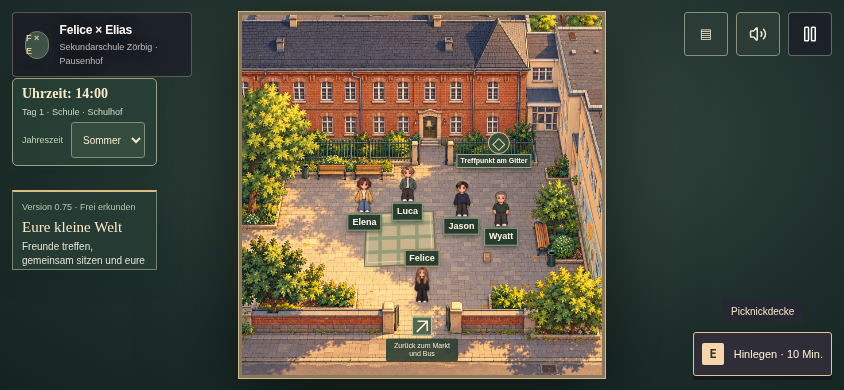
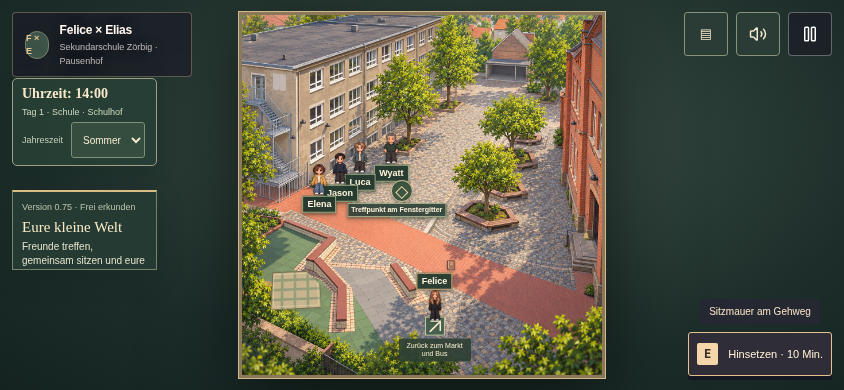
V0.75: rebuild school courtyard from supplied photos

diff --git a/game/story.ts b/game/story.ts
@@ -33,14 +33,7 @@ export const PLACES: Record<Place, { name: string; subtitle: string; exits: Exit
     { x: .47, y: .20, to: "bus", label: "Bus zurück nach Radegast", spawn: { x: .74, y: .47 } },
     { x: .17, y: .76, to: "school", label: "Zum Pausenhof", spawn: { x: .5, y: .85 } },
   ], obstacles: [{ left: .525, right: .555, top: .15, bottom: .21 }] },
-  school: { name: "Sekundarschule Zörbig · Pausenhof", subtitle: "Unser Treffpunkt am Gitter", exits: [{ x: .5, y: .9, to: "zoerbig", label: "Zurück zum Markt und Bus", spawn: { x: .20, y: .75 } }], obstacles: [
-    { left: 0, right: .81, top: 0, bottom: .343 }, { left: .88, right: 1, top: 0, bottom: .76 },
-    { left: .18, right: .49, top: .35, bottom: .414 }, { left: .574, right: .82, top: .35, bottom: .414 },
-    { left: .207, right: .29, top: .416, bottom: .46 }, { left: .312, right: .395, top: .416, bottom: .46 },
-    { left: 0, right: .105, top: .34, bottom: .59 }, { left: 0, right: .32, top: .66, bottom: .815 },
-    { left: .805, right: 1, top: .57, bottom: .68 }, { left: .69, right: 1, top: .755, bottom: .89 },
-    { left: 0, right: .43, top: .82, bottom: .883 }, { left: .59, right: 1, top: .82, bottom: .883 },
-  ] },
+  school: { name: "Sekundarschule Zörbig · Pausenhof", subtitle: "Treffpunkt an den Fenstergittern", exits: [{ x: .535, y: .9, to: "zoerbig", label: "Zurück zum Markt und Bus", spawn: { x: .20, y: .75 } }], obstacles: [] },
   goelzau: { name: "Gölzau · Weg zum Schützenhaus", subtitle: "Ankommen, Freunde treffen, zusammen schießen", exits: [
     { x: .90, y: .65, to: "bus", label: "Zurück nach Radegast", spawn: { x: .82, y: .76 } },
     { x: .265, y: .285, to: "range", label: "Ins Schützenhaus", spawn: { x: .5, y: .82 } },
@@ -88,13 +81,13 @@ export const ENTITIES: Record<Place, Entity[]> = {
     { id: "ticket", name: "Fahrkarte", x: .39, y: .48, display: { x: .405, y: .40 }, kind: "item", art: "ticket", text: "Eine Fahrkarte für den gemeinsamen Weg." },
   ],
   school: [
-    { id: "school-grille", name: "Treffpunkt am Gitter", x: .53, y: .45, display: { x: .70, y: .385 }, kind: "item", art: "landmark", text: "Das Gitter steht direkt am Schulgebäude. Hier treffen Felice und Elias ihre Freunde in der Pause." },
-    { id: "friends", name: "Elena", x: .34, y: .55, kind: "person", art: "elena", text: "Hey Felice! Wir treffen uns am Gitter beim Schulgebäude. Bleibst du noch ein bisschen bei mir?" },
-    { id: "jason", name: "Jason", x: .61, y: .56, kind: "person", art: "jason", text: "Hey. Ich mache gerade eine kleine Pause am Gitter. Du kannst dich gern dazustellen." },
-    { id: "luca", name: "Luca", x: .46, y: .52, kind: "person", art: "luca", text: "Hallo Felice. Heute ist es hier ziemlich ruhig. Das mag ich." },
-    { id: "wyatt", name: "Wyatt", x: .72, y: .59, kind: "person", art: "wyatt", text: "Hey Felice! Schön, dass du da bist." },
-    { id: "notebook", name: "Vergessenes Heft", x: .68, y: .69, kind: "item", art: "book", text: "Jemand hat ein Heft liegen gelassen." },
-    { id: "school-door", name: "Schultür", x: .53, y: .385, display: { x: .52, y: .32 }, kind: "item", art: "bell", text: "Der Unterricht ist vorbei. Zeit für den gemeinsamen Heimweg." },
+    { id: "school-grille", name: "Treffpunkt am Fenstergitter", x: .31, y: .52, display: { x: .43, y: .52 }, kind: "item", art: "landmark", text: "Die niedrigen Gitter sitzen vor den unteren Fenstern des grauen Schulgebäudes. Hier stehen Elena, Jason, Luca und Wyatt in der Pause." },
+    { id: "friends", name: "Elena", x: .215, y: .50, kind: "person", art: "elena", text: "Hey Felice! Wir treffen uns am Gitter beim Schulgebäude. Bleibst du noch ein bisschen bei mir?" },
+    { id: "jason", name: "Jason", x: .272, y: .469, kind: "person", art: "jason", text: "Hey. Ich mache gerade eine kleine Pause am Gitter. Du kannst dich gern dazustellen." },
+    { id: "luca", name: "Luca", x: .328, y: .438, kind: "person", art: "luca", text: "Hallo Felice. Heute ist es hier ziemlich ruhig. Das mag ich." },
+    { id: "wyatt", name: "Wyatt", x: .415, y: .414, kind: "person", art: "wyatt", text: "Hey Felice! Schön, dass du da bist." },
+    { id: "notebook", name: "Vergessenes Heft", x: .58, y: .71, kind: "item", art: "book", text: "Jemand hat ein Heft liegen gelassen." },
+    { id: "school-door", name: "Schultür", x: .875, y: .68, display: { x: .955, y: .63 }, kind: "item", art: "bell", text: "Der Unterricht ist vorbei. Zeit für den gemeinsamen Heimweg." },
   ],
   range: [{ id: "range-host", name: "Am Schießstand", x: .32, y: .57, kind: "person", art: "host", text: "Die Bahn ist bereit. Neun Schüsse, drei Scheiben. Nimm dir Zeit." }, { id: "shoot", name: "Schießbahn", x: .5, y: .44, kind: "item", art: "target", text: "Bereit für deine Runde?" },
     { id: "ida", name: "Ida", x: .19, y: .68, kind: "person", art: "ida", text: "Hallo Felice! Schön, dich beim Schießen zu sehen." },
@@ -176,6 +169,25 @@ const WALK_AREAS: Partial<Record<Place, Point[][]>> = {
   ],
   goelzau: [[{x:.09,y:.26},{x:.61,y:.24},{x:.65,y:.32},{x:.69,y:.43},{x:.77,y:.50},{x:.83,y:.59},{x:.95,y:.59},{x:.95,y:.70},{x:.83,y:.73},{x:.79,y:.63},{x:.72,y:.55},{x:.66,y:.49},{x:.52,y:.45},{x:.35,y:.43},{x:.20,y:.42},{x:.09,y:.35}]],
 };
+// The school photo has diagonal facades and angular tree/wall seating.
+// Use their ground footprints rather than a rectangular fence across the yard.
+const SOLID_AREAS: Partial<Record<Place, Point[][]>> = {
+  school: [
+    [{x:0,y:0},{x:.582,y:0},{x:.567,y:.30},{x:.174,y:.496},{x:0,y:.526}],
+    [{x:.917,y:0},{x:1,y:0},{x:1,y:1},{x:.96,y:1},{x:.90,y:.72},{x:.88,y:.49}],
+    [{x:.677,y:.13},{x:.819,y:.13},{x:.819,y:.197},{x:.677,y:.197}],
+    [{x:.40,y:.362},{x:.455,y:.34},{x:.505,y:.352},{x:.50,y:.382},{x:.45,y:.395},{x:.398,y:.38}],
+    [{x:.55,y:.247},{x:.575,y:.238},{x:.62,y:.249},{x:.608,y:.268},{x:.56,y:.265}],
+    [{x:.837,y:.237},{x:.862,y:.227},{x:.88,y:.242},{x:.87,y:.262},{x:.84,y:.255}],
+    [{x:.754,y:.342},{x:.793,y:.325},{x:.834,y:.334},{x:.831,y:.361},{x:.78,y:.365}],
+    [{x:.707,y:.411},{x:.748,y:.386},{x:.807,y:.389},{x:.826,y:.427},{x:.761,y:.447},{x:.70,y:.431}],
+    [{x:.69,y:.49},{x:.73,y:.478},{x:.783,y:.482},{x:.795,y:.505},{x:.738,y:.518},{x:.684,y:.505}],
+    [{x:.59,y:.55},{x:.64,y:.522},{x:.732,y:.534},{x:.769,y:.581},{x:.664,y:.610},{x:.595,y:.578}],
+    [{x:.115,y:.577},{x:.263,y:.618},{x:.262,y:.636},{x:.125,y:.599}],
+    [{x:.265,y:.618},{x:.260,y:.667},{x:.205,y:.704},{x:.292,y:.757},{x:.292,y:.881},{x:.251,y:.881},{x:.251,y:.782},{x:.178,y:.711},{x:.175,y:.695},{x:.22,y:.656}],
+    [{x:.416,y:.704},{x:.437,y:.696},{x:.490,y:.753},{x:.468,y:.790},{x:.443,y:.785},{x:.414,y:.727}],
+  ],
+};
 function insideArea(x: number, y: number, points: Point[]) {
   let inside = false;
   for (let i = 0, j = points.length - 1; i < points.length; j = i++) {
@@ -185,9 +197,9 @@ function insideArea(x: number, y: number, points: Point[]) {
   return inside;
 }
 export function canWalk(place: Place, x: number, y: number) {
-  return (!WALK_AREAS[place] || WALK_AREAS[place]!.some(points => insideArea(x,y,points))) && x >= .075 && x <= .94 && y >= .16 && y <= .92 && !PLACES[place].obstacles.some(o => x > o.left - .02 && x < o.right + .02 && y > o.top - .015 && y < o.bottom + .015);
+  return (!SOLID_AREAS[place] || !SOLID_AREAS[place]!.some(points => insideArea(x,y,points))) && (!WALK_AREAS[place] || WALK_AREAS[place]!.some(points => insideArea(x,y,points))) && x >= .075 && x <= .94 && y >= .16 && y <= .92 && !PLACES[place].obstacles.some(o => x > o.left - .02 && x < o.right + .02 && y > o.top - .015 && y < o.bottom + .015);
 }
-export const SPAWNS: Record<Place, Point> = { bedroom: { x: .5, y: .7 }, home: { x: .5, y: .78 }, kitchen: { x: .5, y: .85 }, garden: { x: .5, y: .38 }, radegast: { x: .435, y: .28 }, bus: { x: .5, y: .72 }, zoerbig: { x: .61, y: .285 }, school: { x: .5, y: .8 }, goelzau: { x: .86, y: .63 }, range: { x: .5, y: .8 } };
+export const SPAWNS: Record<Place, Point> = { bedroom: { x: .5, y: .7 }, home: { x: .5, y: .78 }, kitchen: { x: .5, y: .85 }, garden: { x: .5, y: .38 }, radegast: { x: .435, y: .28 }, bus: { x: .5, y: .72 }, zoerbig: { x: .61, y: .285 }, school: { x: .535, y: .85 }, goelzau: { x: .86, y: .63 }, range: { x: .5, y: .8 } };
 export function routeTo(from: Place, to: Place): Exit | undefined {
   const queue: { place: Place; first?: Exit }[] = [{ place: from }];
   const seen = new Set<Place>([from]);

diff --git a/game/day.ts b/game/day.ts
@@ -82,14 +82,14 @@ export const REST_SPOTS: RestSpot[] = [
   { id: "home-sofa", place: "home", name: "Sofa im Wohnzimmer", kind: "chair", approach: { x: .36, y: .48 }, position: { x: .275, y: .412 }, companion: { x: .345, y: .412 } },
   { id: "kitchen-rest", place: "kitchen", name: "Kuscheldecke", kind: "mat", approach: { x: .24, y: .81 }, position: { x: .2, y: .75 }, companion: { x: .28, y: .75 }, furniture: { x: .24, y: .77 } },
   { id: "kitchen-chairs", place: "kitchen", name: "Stuhl am Küchentisch", kind: "chair", approach: { x: .7, y: .64 }, position: { x: .654, y: .582 }, companion: { x: .783, y: .582 } },
-  { id: "school-picnic", place: "school", name: "Picknickdecke", kind: "mat", approach: { x: .43, y: .74 }, position: { x: .40, y: .68 }, companion: { x: .48, y: .68 }, furniture: { x: .44, y: .70 } },
+  { id: "school-picnic", place: "school", name: "Picknickdecke", kind: "mat", approach: { x: .145, y: .865 }, position: { x: .115, y: .80 }, companion: { x: .185, y: .80 }, furniture: { x: .15, y: .82 } },
   { id: "range-rest", place: "range", name: "Ruhedecke", kind: "mat", approach: { x: .22, y: .92 }, position: { x: .18, y: .885 }, companion: { x: .26, y: .885 }, furniture: { x: .22, y: .905 } },
   { id: "home-rest", place: "home", name: "Kuscheldecke zum Ausruhen", kind: "mat", approach: { x: .45, y: .78 }, position: { x: .425, y: .72 }, companion: { x: .505, y: .72 }, furniture: { x: .465, y: .74 } },
   { id: "bus-rest", place: "bus", name: "Decke am Platzrand", kind: "mat", approach: { x: .38, y: .85 }, position: { x: .34, y: .79 }, companion: { x: .42, y: .79 }, furniture: { x: .38, y: .81 } },
   { id: "felice-bed", place: "bedroom", name: "Felices Bett", kind: "bed", approach: { x: .30, y: .49 }, position: { x: .255, y: .225 } },
   { id: "garden-bench", place: "garden", name: "Gartenbank", kind: "bench", approach: { x: .25, y: .65 }, position: { x: .215, y: .602 }, companion: { x: .28, y: .602 }, furniture: { x: .25, y: .61 } },
   { id: "bus-bench", place: "bus", name: "Bank an der Haltestelle", kind: "bench", approach: { x: .33, y: .485 }, position: { x: .312, y: .419 }, companion: { x: .362, y: .419 } },
-  { id: "school-bench", place: "school", name: "Bank beim Gitter", kind: "bench", approach: { x: .25, y: .51 }, position: { x: .23, y: .469 }, companion: { x: .273, y: .469 } },
-  { id: "school-bench-right", place: "school", name: "Zweite Bank beim Gitter", kind: "bench", approach: { x: .355, y: .51 }, position: { x: .335, y: .469 }, companion: { x: .378, y: .469 } },
+  { id: "school-bench", place: "school", name: "Sitzrand am vorderen Baum", kind: "bench", approach: { x: .69, y: .665 }, position: { x: .662, y: .615 }, companion: { x: .717, y: .615 } },
+  { id: "school-bench-right", place: "school", name: "Sitzmauer am Gehweg", kind: "bench", approach: { x: .52, y: .75 }, position: { x: .435, y: .744 }, companion: { x: .473, y: .782 } },
   { id: "range-bench", place: "range", name: "Bank am Schießstand", kind: "bench", approach: { x: .76, y: .89 }, position: { x: .725, y: .835 }, companion: { x: .79, y: .835 }, furniture: { x: .76, y: .845 } },
 ];

diff --git a/game/graphics.ts b/game/graphics.ts
@@ -18,10 +18,24 @@ export const SCENE_GRAPHICS: Record<Place, SceneGraphic> = {
     { clip: "polygon(68% 0%,100% 0%,100% 100%,18% 100%,18% 80%,31% 71%,38% 65%,40% 61%,37% 54%,37% 46%,39% 42%,43% 38%,47% 33%,67% 31%)", depth:96 },
     rect(52.5,15,55.5,21),
   ] },
-  school: { background: "/rooms/school-court-v075.png", outdoors: true, light: "#e9dbb8", foreground: [
-    rect(0,0,81,34.3),rect(88,0,100,76),rect(18,35,49,41.4),rect(57.4,35,82,41.4),
-    rect(20.7,41.6,29,46),rect(31.2,41.6,39.5,46),rect(0,34,10.5,59),rect(0,66,32,81.5),
-    rect(80.5,57,100,68),rect(69,75.5,100,89),rect(0,82,43,88.3),rect(59,82,100,88.3),
+  school: { background: "/rooms/school-court-photo-v075.png", outdoors: true, light: "#e9dbb8", foreground: [
+    { clip: "polygon(0% 0%,58.2% 0%,56.7% 30%,17.4% 49.6%,0% 52.6%)", depth:30 },
+    { clip: "polygon(0% 18%,14% 19%,17.4% 49.6%,9% 53%,0% 53%)", depth:53 },
+    { clip: "polygon(91.7% 0%,100% 0%,100% 100%,96% 100%,90% 72%,88% 49%)", depth:96 },
+    { clip: "polygon(38% 16%,48% 12%,55% 17%,54% 29%,48% 31%,47% 37%,50.5% 35.2%,50% 38.2%,45% 39.5%,39.8% 38%,44% 34%,44% 29%,37% 26%)", depth:39.5 },
+    { clip: "polygon(49% 7%,58% 5%,64% 10%,66% 19%,59% 23%,59% 24%,62% 24.9%,60.8% 26.8%,56% 26.5%,55% 24.7%,57% 23%,57% 21%,50% 19%)", depth:26.8 },
+    { clip: "polygon(80% 8%,86% 8%,92% 13%,91% 21%,87% 23%,88% 24.2%,87% 26.2%,84% 25.5%,83.7% 23.7%,85% 23%,81% 21%,79% 15%)", depth:26.2 },
+    { clip: "polygon(72% 24%,78% 22%,85% 25%,84% 31%,80% 32%,83.4% 33.4%,83.1% 36.1%,78% 36.5%,75.4% 34.2%,77% 32%,73% 31%)", depth:36.5 },
+    { clip: "polygon(66% 29%,73% 25%,80% 28%,82% 35%,77% 37%,75% 40%,80.7% 38.9%,82.6% 42.7%,76.1% 44.7%,70% 43.1%,70.7% 41.1%,74% 39%,73% 37%,67% 36%)", depth:44.7 },
+    { clip: "polygon(65% 35%,72% 33%,78% 36%,79% 43%,75% 46%,74% 49%,78.3% 48.2%,79.5% 50.5%,73.8% 51.8%,68.4% 50.5%,69% 49%,72% 47%,72% 45%,66% 44%)", depth:51.8 },
+    { clip: "polygon(57% 42%,64% 36%,70% 36%,75% 39%,78% 46%,74% 52%,68% 52%,69% 54%,73.2% 53.4%,76.9% 58.1%,66.4% 61%,59.5% 57.8%,59% 55%,65% 52%,65% 49%,58% 49%)", depth:61 },
+    { clip: "polygon(11.5% 57.7%,26.3% 61.8%,26.2% 63.6%,12.5% 59.9%)", depth:63.6 },
+    { clip: "polygon(26.5% 61.8%,26% 66.7%,20.5% 70.4%,29.2% 75.7%,29.2% 88.1%,25.1% 88.1%,25.1% 78.2%,17.8% 71.1%,17.5% 69.5%,22% 65.6%)", depth:88.1 },
+    // The diagonal sitting wall needs separate depths so its near end does
+    // not cover a person sitting on the far end.
+    { clip: "polygon(41.6% 70.4%,43.7% 69.6%,46% 72.7%,43.8% 74.3%,41.4% 72.7%)", depth:72 },
+    { clip: "polygon(43.8% 74.3%,46% 72.7%,47.5% 74.6%,45.7% 76.6%,44.3% 76.3%)", depth:75 },
+    { clip: "polygon(45.7% 76.6%,47.5% 74.6%,49% 75.3%,46.8% 79%,44.3% 78.5%,44.3% 76.3%)", depth:78 },
   ] },
   goelzau: { background: "/rooms/goelzau-walk-v075.png", outdoors: true, light: "#dfe5ba", foreground: [rect(5,0,63,24.5),rect(71,0,100,43),
     { clip: "polygon(0% 40%,20% 42%,35% 43%,52% 45%,66% 49%,72% 55%,79% 63%,83% 73%,0% 100%)", depth:96 },

diff --git a/game/actors.ts b/game/actors.ts
@@ -11,12 +11,13 @@ export function standingActor(position: Point, wait = 0): Actor {
   return { position, pose: "standing", moving: false, frame: 0, direction: "front", distance: 0, waypoint: 1, wait, route: [] };
 }
 
-// Short, separate routes below the school building and its benches.
+// Four short routes beside the gray building's basement window grilles.
+// Elias is invited to the separate seating area and has no group patrol.
 export const SCHOOL_ROUTES: Record<string, Point[]> = {
-  friends: [{ x: .34, y: .55 }, { x: .40, y: .55 }, { x: .40, y: .61 }, { x: .34, y: .61 }],
-  jason: [{ x: .61, y: .56 }, { x: .59, y: .56 }, { x: .59, y: .49 }, { x: .61, y: .49 }],
-  luca: [{ x: .46, y: .52 }, { x: .50, y: .52 }, { x: .50, y: .58 }, { x: .46, y: .58 }],
-  wyatt: [{ x: .72, y: .59 }, { x: .77, y: .59 }, { x: .77, y: .51 }, { x: .72, y: .51 }],
+  friends: [{ x: .215, y: .50 }, { x: .235, y: .49 }, { x: .245, y: .52 }, { x: .225, y: .53 }],
+  jason: [{ x: .272, y: .469 }, { x: .292, y: .459 }, { x: .302, y: .489 }, { x: .282, y: .499 }],
+  luca: [{ x: .328, y: .438 }, { x: .348, y: .428 }, { x: .358, y: .458 }, { x: .338, y: .468 }],
+  wyatt: [{ x: .415, y: .414 }, { x: .447, y: .414 }, { x: .457, y: .456 }, { x: .425, y: .456 }],
 };
 export function initialActors(): Actors {
   return Object.fromEntries(Object.values(ENTITIES).flat().filter(e => e.kind === "person" && canChangePose(e.art)).map((e, i) => [e.id, standingActor({ x: e.x, y: e.y }, 1.5 + i % 4)]));
@@ -25,6 +26,11 @@ export function initialActors(): Actors {
 /** Walkable grid routing, including the exact endpoints, around furniture. */
 export function walkingRoute(place: Place, from: Point, to: Point): Point[] {
   const grid = .02;
+  const clearEdge = (a: Point, b: Point) => {
+    const samples = Math.max(1, Math.ceil(Math.hypot(b.x-a.x,b.y-a.y)/.005));
+    for (let i=1;i<=samples;i++) if (!canWalk(place,a.x+(b.x-a.x)*i/samples,a.y+(b.y-a.y)*i/samples)) return false;
+    return true;
+  };
   const cell = (p: Point) => [Math.round(p.x / grid), Math.round(p.y / grid)];
   const start = cell(from), end = cell(to), key = (x: number, y: number) => `${x},${y}`;
   const queue = [start];
@@ -32,10 +38,10 @@ export function walkingRoute(place: Place, from: Point, to: Point): Point[] {
   let found: number[] | undefined;
   for (let i = 0; i < queue.length; i++) {
     const [x, y] = queue[i];
-    if (Math.hypot(x - end[0], y - end[1]) <= 1) { found = [x, y]; break; }
+    if (Math.hypot(x - end[0], y - end[1]) <= 1 && clearEdge({x:x*grid,y:y*grid},to)) { found = [x, y]; break; }
     for (const [dx, dy] of [[1, 0], [-1, 0], [0, 1], [0, -1]]) {
       const nx = x + dx, ny = y + dy, id = key(nx, ny);
-      if (previous.has(id) || !canWalk(place, nx * grid, ny * grid)) continue;
+      if (previous.has(id) || !clearEdge({x:x*grid,y:y*grid},{x:nx*grid,y:ny*grid})) continue;
       previous.set(id, [x, y]); queue.push([nx, ny]);
     }
   }

diff --git a/game/SceneArt.tsx b/game/SceneArt.tsx
@@ -52,11 +52,15 @@ export const SceneArt = memo(function SceneArt({ place, christmas }: { place: Pl
       <Tree x={56} y={208}/><Tree x={547} y={537}/><path d="M90 531h321" stroke="#b1bd93" strokeWidth="8"/>
     </>}
     {place === "school" && <>
-      <rect x="60" y="200" width="484" height="328" fill="url(#paving)"/><rect x="100" y="38" width="400" height="157" fill="#bb8b68"/><rect x="91" y="33" width="418" height="22" fill="#6a6058"/><path d="M106 182h390" stroke="#e0c39a" strokeWidth="12"/>
-      {[133,207,345,419].map(x=><Window key={x} x={x} y={89}/>)}<rect x="275" y="119" width="50" height="79" fill="#5a7774"/><path d="M300 121v73" stroke="#d8c6a2" strokeWidth="4"/><rect x="218" y="58" width="165" height="26" fill="#ead8b2"/><text x="301" y="69" textAnchor="middle" fill="#715a45" fontSize="9" fontFamily="monospace">SEKUNDARSCHULE</text><text x="301" y="80" textAnchor="middle" fill="#715a45" fontSize="10" fontFamily="monospace">ZÖRBIG</text>
-      {[140,366].map((x,i)=><g key={x}><path d={`M${x} 207h${i?72:136}`} stroke="#455c4a" strokeWidth="7"/>{Array.from({length:i?8:15},(_,n)=><path key={n} d={`M${x+n*9} 193v29`} stroke="#455c4a" strokeWidth="3"/>)}</g>)}
-      {[{x:74,y:329},{x:449,y:329}].map(p=><g key={p.x}><rect x={p.x} y={p.y} width="82" height="17" fill="#a47750"/><rect x={p.x+6} y={p.y+20} width="70" height="13" fill="#886246"/></g>)}<Tree x={48} y={236}/><Tree x={554} y={230}/><Tree x={74} y={551}/><Tree x={527} y={553}/>
-      <path d="M290 526h30v74h-30Z" fill="#c6bda1"/>
+      <rect width="600" height="600" fill="url(#paving)"/>
+      <path d="M0 0H349V180L104 298H0Z" fill="#9d9b92"/><path d="M0 80 338 8M0 158 336 87M0 226 332 149" stroke="#c6c5b9" strokeWidth="5"/>
+      {[130,170,210,250,290].map((x,i)=><g key={x}><Window x={x} y={70-i*15}/><Window x={x} y={135-i*15}/><Window x={x} y={200-i*15}/><rect x={x} y={263-i*15} width="28" height="20" fill="#47504b"/>{[5,11,17,23].map(n=><path key={n} d={`M${x+n} ${263-i*15}v20`} stroke="#bcc2b9" strokeWidth="2"/>)}</g>)}
+      <path d="M25 145v146h65V171M25 179 90 245M25 221 90 288" stroke="#c4cfcb" strokeWidth="5" fill="none"/>
+      <path d="M550 0H600V600L576 600 540 432 528 294Z" fill="#a36143"/>{[80,160,240,320].map(y=><Window key={y} x={557} y={y}/>)}<rect x="558" y="356" width="42" height="55" fill="#463d35"/>
+      <path d="M35 310 600 540" stroke="#ba765a" strokeWidth="50"/>
+      <path d="M0 360 145 388 105 425 160 470 160 540 0 530Z" fill="#7d9870"/>
+      <path d="M65 350 151 380 110 422 168 467 168 530M254 421 283 461" stroke="#9b6250" strokeWidth="12" fill="none"/>
+      {[{x:274,y:227},{x:350,y:157},{x:460,y:251},{x:412,y:347}].map(p=><g key={p.x}><path d={`M${p.x-34} ${p.y+6}l34 -17 35 17 -35 15Z`} fill="#8a6b4e"/><Tree x={p.x} y={p.y}/></g>)}
     </>}
     {place === "range" && <>
       <rect width="600" height="211" fill="#b8baa3"/><path d="M0 192h600" stroke="#8c6d4d" strokeWidth="16"/>

diff --git a/game/world.css b/game/world.css
@@ -225,3 +225,8 @@
 .version-075[data-scene="zoerbig"] .room-player,
 .version-075[data-scene="radegast"] .entity-person,
 .version-075[data-scene="zoerbig"] .entity-person { width:4.8%!important; }
+
+/* Photo-based school courtyard: match the facade scale and keep the green corner clear. */
+.version-075[data-scene="school"] .room-player,
+.version-075[data-scene="school"] .entity-person { width:6.6%!important; }
+.version-075[data-scene="school"] .rest-mat { width:14%; }

diff --git a/qa/v075/REVIEW.md b/qa/v075/REVIEW.md
@@ -1,19 +1,20 @@
 # V0.75 – Orts- und Szenenprüfung
 
-Geprüft am 06.10.2026 mit Chromium, agent-browser und dem lokalen Vinext-Entwicklungsserver. Alle zehn Orte wurden in 1366 × 900 und 844 × 390 aufgenommen und auf Darstellung sowie horizontales Überlaufen geprüft. Die neuen Außenbilder und der Hof wurden anhand der fertigen Hintergründe ausgerichtet. Die [Ortsreferenzen](SOURCES.md) beschreiben die Grenzen des realen Abgleichs.
+Geprüft am 06.10.2026 mit Chromium, agent-browser und dem lokalen Vinext-Entwicklungsserver. Alle zehn Orte wurden in 1366 × 900 und 844 × 390 aufgenommen und auf Darstellung sowie horizontales Überlaufen geprüft. Der Schulhof wurde anschließend mit den vier Nutzerfotos neu gestaltet und in beiden Größen erneut geprüft. Die [Ortsreferenzen](SOURCES.md) beschreiben den Fotoabgleich und seine Grenzen.
 
 ## Ergebnis
 
-- 39 Logiktests bestanden. Neu: vollständige, kollisionsgeprüfte Hin- und Rückwege bis zu allen Ausgängen der drei Wegszenen; Schul-/Schießrouten über die neuen Ankunftsorte; alte Kapitelstände bleiben lesbar.
+- 41 Logiktests bestanden: kollisionsgeprüfte Hin- und Rückwege in den drei Wegszenen, Schul-/Schießrouten über die neuen Ankunftsorte, kompatible Kapitelstände sowie genau vier Freunde am Fenstergitter ohne Elias. Die Wegsuche prüft auch schmale Sitzmauern zwischen ihren Rasterpunkten.
 - TypeScript-Prüfung, ESLint der geänderten Spiel- und QA-Dateien sowie Produktionsbuild bestanden.
-- Browser: Wohnung → Radegast → Haltestelle → Zörbiger Markt → Schule und zurück vollständig mit Tastatur gelaufen. Die Gölzauer Zufahrt wurde nach dem Bildabgleich nochmals in beide Richtungen geprüft, einschließlich Eintritt in den Schießstand.
-- Felice und Elias erreichen beide Bänke am Gitter sowie die Haltestellenbank, sitzen zusammen und stehen wieder auf. Elena erreicht eine Bank und die Ruhedecke und kann wieder aufstehen.
+- Browser: Wohnung → Radegast → Haltestelle → Zörbiger Markt → Schule und zurück vollständig mit Tastatur gelaufen. Die Gölzauer Zufahrt wurde nach dem Bildabgleich nochmals in beide Richtungen geprüft, einschließlich Eintritt in den Schießstand. Der abschließende Reise-, Unterrichts- und Winterlauf besteht mit 165 Prüfschritten ohne JavaScript-Fehler.
+- Der fotobasierte Hof zeigt den grauen Schulbau links, das Backsteingebäude rechts, den roten Querweg, Baumbeete und die grüne Ecke mit Sitzmauern. Die vier Freunde bewegen sich entlang der blau markierten unteren Fenstergitter. Ohne Einladung erscheint kein Elias auf dem Hof.
+- Felice und Elias erreichen den Sitzrand am vorderen Baum, die Sitzmauer am Gehweg sowie die Haltestellenbank, sitzen zusammen und stehen wieder auf. Elias bleibt anschließend außerhalb der Schulgruppe ansprechbar. Elena erreicht einen Sitzplatz und die Ruhedecke in der grünen Ecke und kann wieder aufstehen.
 - Unterricht an der neuen Türposition springt von 7:15 auf 13:00. Gehen verbraucht keine zusätzliche Spielzeit; Ortswechsel und Ruheaktionen verwenden die vorhandenen Zeitregeln.
 - Ortsplan markiert den aktuellen Ort; auf Desktop und Handy vollständig sichtbar nach Scrollen im Buch.
 - Joystick per Maus-/Pointer-Drag bei 760 × 390 geprüft: Bewegung startet und stoppt beim Loslassen. Dies prüft den Pointer-Pfad, nicht reale Touch-Hardware.
 - Abschließende Browserläufe melden keine JavaScript-Fehler.
 
-Bei der Prüfung wurden die Beschriftung der Marktankunft, die zwei Schulbankpositionen, der Gölzauer Rückweg auf der Zufahrt und die geometrischen Grenzen der Straßenkurven ausgerichtet. Lucas ruhiger Laufweg liegt ebenfalls vor dem Gitter. Zwei QA-Schritte wurden korrigiert: Ein Weglabel gehört zur Aktionsbeschreibung über dem Knopf; Elenas Sitzplatz muss vor ihrem Haltungswechsel direkt angesprochen werden. Die betroffenen Schritte wurden erfolgreich wiederholt.
+Die Schule besitzt Hindernispolygone für Fassaden, Baumbeete und Sitzmauern sowie passende Vordergrundmasken. Die diagonale Sitzmauer verwendet mehrere Tiefenabschnitte, damit sitzende Figuren sichtbar bleiben. Ein eigener Browserlauf prüft 118 Schritte einschließlich beider Paar-Sitzplätze, Elenas Haltungswechsel, Hofausgang und Rückkehr, Unterricht und Winterdarstellung; alle Schritte bestehen ohne JavaScript-Fehler. Die einfache Ersatzgrafik folgt derselben Hofanordnung.
 
 ## Alle zehn Orte
 
@@ -34,8 +35,10 @@ Bei der Prüfung wurden die Beschriftung der Marktankunft, die zwei Schulbankpos
 
 - [Radegaster Weg bis zur Haltestelle](screenshots/radegast-path-end.png)
 - [Schulankunft vom Markt aus](screenshots/zoerbig-school-arrival.png)
-- [Felice und Elias auf der ersten Bank beim Gitter](screenshots/couple-at-grille.png)
-- [Auf der zweiten Bank](screenshots/couple-second-grille-bench.png)
+- [Vier Schulfreunde an den Fenstergittern](screenshots/friends-at-window-grilles.png)
+- [Felice und Elias am vorderen Baum](screenshots/couple-front-tree.png)
+- [Felice und Elias auf der Sitzmauer](screenshots/couple-seat-wall.png)
+- [Schultür nach Unterricht bis 13 Uhr](screenshots/school-door-photo.png)
 - [Zusammen an der Haltestelle](screenshots/couple-bus-bench.png)
 - [Elena sitzt](screenshots/elena-sitting.png) · [Elena liegt auf der Decke](screenshots/elena-lying.png)
 - [Eingang Schützenhaus](screenshots/goelzau-entrance.png) · [Rückweg auf der Zufahrt](screenshots/goelzau-return-road.png)
@@ -58,4 +61,4 @@ npx --yes --package agent-browser agent-browser --session v075 batch --bail --js
 npx --yes --package agent-browser agent-browser --session v075 close
 ```
 
-Die drei neuen Wegszenen sind bewusst komprimiert. Die aktuelle Außenform des Schützenhauses und sämtliche Hofdetails konnten nicht vollständig anhand aktueller Fotos belegt werden. Reale Busabfahrtszeiten werden nicht simuliert.
+Die drei neuen Wegszenen sind bewusst komprimiert. Der Schulhof folgt den Nutzerfotos, ohne vermessene Abstände oder einen zugesicherten aktuellen Bauzustand. Die aktuelle Außenform des Schützenhauses ist eine Spielinterpretation. Reale Busabfahrtszeiten werden nicht simuliert.

diff --git a/game/ART-V075.md b/game/ART-V075.md
@@ -1,18 +1,20 @@
 # Grafiken und Ortsaufbau in V0.75
 
-Fünf neue PNG-Hintergründe, jeweils 1254 × 1254, wurden mit Imagegen erstellt. Die drei Luftbilder des Nutzers dienten als Referenz für Radegast, Zörbig und den Schulstandort. Die neuen Dateien bleiben unverändert; Spielgeometrie und Vordergrundmasken sind auf die fertigen Bilder ausgerichtet.
+Fünf aktive PNG-Hintergründe, jeweils 1254 × 1254, wurden mit Imagegen erstellt. Die drei Luftbilder des Nutzers dienen als Ortsreferenz, die vier sichtbaren Schulhof-Fotos zusätzlich als direkte Bildreferenzen für den Hof. Spielgeometrie und Vordergrundmasken sind auf die fertigen Bilder ausgerichtet. Die Originalfotos werden nicht veröffentlicht.
 
 | Datei unter `public/rooms/` | Gestaltungsbrief |
 | --- | --- |
 | `radegast-walk-v075.png` | Verkürzte, von oben schräg sichtbare Straße: Felices graues Wohnhaus mit vorgelagertem Giebel oben links, Straße nach Süden/rechts, dichte Hausreihen, rückwärtige Gärten und westliches Grün. Warme, gemalte Bildsprache passend zum bisherigen Spiel. |
 | `radegast-stop-v075.png` | Haltestellenszene im Ortskern mit Wartehäuschen, horizontaler Bank, H-Schild und Bus; freie gepflasterte Fläche vor dem Einstieg. Gestaltung ergänzt aus dem Ortskontext. |
 | `zoerbig-walk-v075.png` | Markt und Busankunft oben, gebogener südwestlicher Schulweg, Kirche rechts, langer Schulbau unten links und benachbarte Schulgebäude. Keine eingebrannten Spieltexte oder Figuren. |
-| `school-court-v075.png` | Schulgebäude am oberen Rand, Gitter direkt davor mit mittlerem Durchgang, zwei horizontale Bänke vor dem Gitter, rechter Gebäudeflügel und bepflanzter Hof. Die seitliche Bank rechts bleibt Hintergrundmöbel; benutzt werden die zwei korrekt ausgerichteten Bänke links. |
+| `school-court-photo-v075.png` | Grauer Schulbau links mit drei Vollgeschossen, weißen Fensterrahmen, Kellergittern und Außentreppe; roter Backsteinbau rechts; roter Querweg, graues Pflaster, Baumbeete mit Sitzrändern und grüne Ecke mit hellen Sitzmauern. Keine Menschen, Beschriftungen, blaue Markierung oder freistehender Hofzaun. |
 | `goelzau-walk-v075.png` | Kurzer Weg von der Straße über die Zufahrt zum Schützenhaus, Vorplatz und ländliche Umgebung. Eigene Interpretation des öffentlich belegten Orts; die Fassade ist nicht anhand einer aktuellen Außenaufnahme vermessen. |
 
-`story.ts` beschreibt die begehbaren Bodenflächen in den drei neuen Wegszenen als Polygone. Bus, Schulgebäude, Gitter, Bänke und Beete haben zusätzliche Hindernisse. `graphics.ts` legt die passenden Vordergrundmasken fest. Figuren werden auf den Straßenübersichten kleiner gezeichnet als auf dem nahen Pausenhof.
+`school-court-v075.png` ist eine frühere, nicht mehr verwendete Hofgrafik. Der Grafikkatalog verweist ausschließlich auf die fotobasierte Variante.
 
-Die beiden Schulbänke verwenden unterschiedliche Plätze mit gemessenen Sitzpositionen. Die Ruhedecke liegt auf freier Hoffläche. Die vier Schulfreunde laufen auf kurzen Wegen unterhalb des Gitters; Jason und Luca behalten ihre langsamere Bewegung und längeren Pausen. Bestehende Figurenatlanten und Felices Bett unter der Decke bleiben Teil der Welt.
+`story.ts` beschreibt begehbare Bodenflächen der drei Wegszenen sowie die Gebäude, Baumbeete und schmalen Sitzmauern des Schulhofs als Polygone. Die Wegsuche prüft zusätzlich die Strecken zwischen ihren Rasterpunkten, damit Figuren schmale Mauern nicht überspringen. `graphics.ts` legt Vordergrundmasken fest; die diagonale Sitzmauer hat mehrere Tiefenabschnitte. Auch die einfache Ersatzgrafik übernimmt den neuen Hofaufbau.
+
+Elena, Jason, Luca und Wyatt bewegen sich auf kurzen Wegen entlang der unteren Fenstergitter des grauen Schulbaus. Jason und Luca gehen langsamer und pausieren länger. Elias hat dort keine Gruppenroute. Er kommt auf Einladung zum Sitzrand am vorderen Baum oder zur Sitzmauer am Gehweg. Die Ruhedecke liegt auf der freien grünen Fläche. Sitzpositionen, Aufstehwege und Figurengrößen wurden in Browserbildern geprüft.
 
 Die neuen Außenbilder verwenden für Winter eine kühlere, entsättigte Darstellung und die vorhandene Jahreszeitenatmosphäre. Sie besitzen keine eigenen verschneiten PNG-Varianten. Die Garten- und Wohnzimmer-Wintergrafiken bleiben vorhanden.
 

diff --git a/README.md b/README.md
@@ -6,11 +6,11 @@ Version **0.75**: ein eigenständiges, mobiles 2D-Spiel mit zehn zusammenhängen
 
 - **Radegast:** Von Felices Wohnung führt ein verkürzter, wiedererkennbarer Weg entlang der Hausreihen und Gärten zur neu gestalteten Bushaltestelle.
 - **Zörbig:** Der Bus kommt am Markt an. Von dort geht es zu Fuß an der Kirche vorbei zur Sekundarschule und auf den Pausenhof. Markt, Kirche und Schule folgen der Anordnung im bereitgestellten Luftbild.
-- **Pausenhof:** Das Gitter liegt direkt am Schulgebäude. Elena, Jason, Luca und Wyatt bewegen sich davor. Felice und Elias können auf den beiden Bänken beim Gitter sitzen; die Sitzpositionen und die Wege zum Aufstehen sind auf das neue Hofbild abgestimmt.
+- **Pausenhof:** Die vier Schulhof-Fotos bestimmen den grauen Schulbau links, das Backsteingebäude rechts, den roten Gehweg, Baumbeete mit Sitzrändern und die grüne Ecke mit Sitzmauern. Elena, Jason, Luca und Wyatt bewegen sich an den blau markierten Fenstergittern des grauen Gebäudes. Elias gehört nicht zu dieser Gruppe; Felice kann ihn separat zum Sitzen am Baum oder auf der Sitzmauer einladen.
 - **Gölzau:** Der neue Weg führt über die Zufahrt zum Schützenhaus und weiter in den vorhandenen Schießstand. Alle neuen Wege besitzen Rückwege, angepasste Hindernisse und Vordergrundmasken.
 - **Ortsplan:** Das Erinnerungsbuch zeigt die Verbindungen zwischen Wohnung, Radegast, Zörbig und Gölzau sowie den aktuellen Ort. Tagesregeln, Kapitel und bestehende Spielstände bleiben erhalten.
 
-Die Ortsanordnung nutzt die persönlichen Luftbilder und öffentliche Quellen. Fassaden und genaue Hofdetails sind zeichnerisch ergänzt; aktuelle Hofbilder waren teilweise gesperrt. Die Gölzauer Außenansicht ist eine Spielinterpretation. [Quellen und Genauigkeit](qa/v075/SOURCES.md).
+Die Ortsanordnung nutzt die persönlichen Luftbilder, die vier Schulhof-Fotos und öffentliche Quellen. Wege und Abstände sind für das Spiel verkürzt; einzelne Details sind zeichnerisch ergänzt. Die Gölzauer Außenansicht ist eine Spielinterpretation. [Quellen und Genauigkeit](qa/v075/SOURCES.md).
 
 [Browserprüfung und Szenenbilder von V0.75](qa/v075/REVIEW.md) · [Grafikvorgaben](game/ART-V075.md)
 
@@ -72,11 +72,11 @@ Grafikdateien und Generierungsvorgaben sind in [game/ART-V06.md](game/ART-V06.md
 ```powershell
 npm test
 npx tsc --noEmit
-npx eslint game/Game.tsx game/GameUI.tsx game/WorldArt.tsx game/NamesPanel.tsx game/actors.ts game/rest.ts game/names.ts game/graphics07.ts tests/actors.test.mjs tests/rest.test.mjs tests/names.test.mjs tests/motion.test.mjs tests/world.test.mjs game/WorldMap.tsx game/story.ts game/day.ts tests/routes.test.mjs qa/v075/*.mjs
+npx eslint game/SceneArt.tsx game/graphics.ts game/Game.tsx game/GameUI.tsx game/WorldArt.tsx game/NamesPanel.tsx game/actors.ts game/rest.ts game/names.ts game/graphics07.ts tests/actors.test.mjs tests/rest.test.mjs tests/names.test.mjs tests/motion.test.mjs tests/world.test.mjs game/WorldMap.tsx game/story.ts game/day.ts tests/routes.test.mjs qa/v075/*.mjs
 npm run build
 ```
 
-Die 39 Tests umfassen Kapitel, Speicherstände, Erreichbarkeit, Trefferwertung, Kamera, Grafikzuordnung, Ton, Tagesgrenzen, Hinweiszeiten, Schlafen, Jahreszeiten, Bewegung bei verschiedenen Bildraten, Kollisionen, NPC-Laufwege, Platzreservierungen, alle Freundesposen sowie Felices und Elias' Ruhewege und ergänzte Namen. Browserprüfungen ergänzen sie um Darstellung und Bedienung.
+Die 41 Tests umfassen Kapitel, Speicherstände, Erreichbarkeit, Trefferwertung, Kamera, Grafikzuordnung, Ton, Tagesgrenzen, Hinweiszeiten, Schlafen, Jahreszeiten, Bewegung bei verschiedenen Bildraten, Kollisionen, NPC-Laufwege, Platzreservierungen, alle Freundesposen sowie Felices und Elias' Ruhewege und ergänzte Namen. Die Schulgruppe ohne Elias und durchgehend begehbare Wege um schmale Sitzmauern werden ebenfalls geprüft. Browserprüfungen ergänzen sie um Darstellung und Bedienung.
 
 ## Lokal starten
 

diff --git a/qa/v075/SOURCES.md b/qa/v075/SOURCES.md
@@ -1,6 +1,6 @@
 # Ortsreferenzen für V0.75
 
-Recherche vom 06.10.2026. Grundlage sind die drei vom Nutzer bereitgestellten Luftbildausschnitte und die folgenden öffentlichen Quellen. Die persönlichen Referenzbilder werden nicht ins Repository aufgenommen.
+Recherche und Fotoabgleich vom 06.10.2026. Grundlage sind die drei vom Nutzer bereitgestellten Luftbildausschnitte, die vier anschließend im Chat sichtbaren Schulhof-Fotos und die folgenden öffentlichen Quellen. Die persönlichen Referenzbilder werden nicht ins Repository aufgenommen.
 
 | Bezug | Quelle | Verwendung und Genauigkeit |
 | --- | --- | --- |
@@ -12,10 +12,11 @@ Recherche vom 06.10.2026. Grundlage sind die drei vom Nutzer bereitgestellten Lu
 | Zörbig, Markt | [Haltestellenplan des Busbetreibers](https://www.mein-bus.net/upload/Fahrplan/Plaene/Lageplan/Lageplan%20Z%C3%B6rbig%2C%20Markt_2025-08-11.pdf) | Suchfund bestätigt den Haltestellennamen. Die PDF ließ sich nicht öffnen; genaue aktuelle Haltepositionen und Fahrzeiten wurden daraus nicht übernommen. |
 | Historischer Ortskern Radegast | [Radegast bei im-bild.org](https://anhalt-bitterfeld.im-bild.org/fotos/geschaefte-gaststaetten/prinz-von-anhalt-radegast), [Stadt Radegast](https://de.wikipedia.org/wiki/Stadt_Radegast) | Ergänzende Beschreibungen des Ortskerns. Veröffentlichte Fotos werden nicht als Spielassets verwendet. |
 | Schützenhaus Gölzau | [Schützenverein Gölzau 1990 e.V.](https://www.schuetzenvereingoelzau1990ev.de/), [Kreisschützenverband Anhalt](https://www.ksv-anhalt.de/ksv.html) | Bestätigen Verein und Schützenhaus/Landesleistungszentrum in Weißandt-Gölzau. Eine ausreichend überprüfbare aktuelle Außenansicht stand nicht zur Verfügung. |
-| Gitter am Schulgebäude | Direkte Nutzerklärung | Das Gitter gehört vor das Schulgebäude. Die Position der Freunde und die beiden benutzbaren Bänke folgen dieser Angabe; Form, Farbe und genaue Abstände sind gestalterische Ergänzungen. |
+| Schulhof, Fassaden und Sitzbereiche | Vier Nutzerfotos im Chat | Langer grauer Schulbau links mit drei Vollgeschossen, unteren Fenstern und Außentreppe; Backsteinbau rechts; graues Pflaster, roter Querweg, polygonale Baumbeete mit Sitzrändern und grüne Fläche mit hellen Sitzmauern. Das zeitweilige Baugerüst wird nicht übernommen. Der gemalte Hintergrund enthält keine Personen aus den Fotos. |
+| Blau markierter Treffpunkt | Nutzerfoto 1 und direkte Nutzerklärung | Die Markierung liegt an den Gittern vor den unteren Fenstern des grauen Gebäudes. Elena, Jason, Luca und Wyatt stehen und bewegen sich dort; Elias nicht. Sitzrand und Sitzmauer sind davon getrennte Ruheplätze. |
 
 ## Grenzen des Abgleichs
 
-Die neuen Hintergründe sind eigens erzeugte, gemalte Spielgrafiken. Die Ortsanordnung orientiert sich an den Luftbildern und belegbaren Quellen. Fassaden, Bäume, Straßenmöbel, Bänke, die genaue Gitterform und das Gölzauer Außengebäude sind spielerische Rekonstruktionen. Ein vollständig fotogenauer Nachbau des heutigen Schulhofs ist mit den zugänglichen Referenzen nicht belegt. Die Internetwerkzeuge lieferten für manche Bilder nur Bildverweise und für gesperrte Fotos keinen Bildinhalt; diese Fotos wurden nicht als visuell abgeglichen ausgegeben.
+Die neuen Hintergründe sind eigens erzeugte, gemalte Spielgrafiken. Der Schulhof wurde visuell anhand der vier sichtbaren Nutzerfotos abgeglichen. Architektur, Bodenbeläge und Treffpunkt folgen diesen Bildern; Maßstab, Baumanzahl, Abstände und kleinere Details sind für die Spielansicht angepasst und nicht vermessen. Das Gölzauer Außengebäude bleibt eine spielerische Rekonstruktion. Gesperrte Internetfotos wurden nicht als visuell geprüft ausgegeben; sie werden für den Schulhofabgleich durch die Nutzerfotos ergänzt.
 
 Die Spielwege sind bewusst kurz. Busverkehr und Ortswechsel verwenden die vorhandene Spielregel von 30 Minuten; reale Fahrpläne und echte Gehzeiten werden nicht simuliert.
